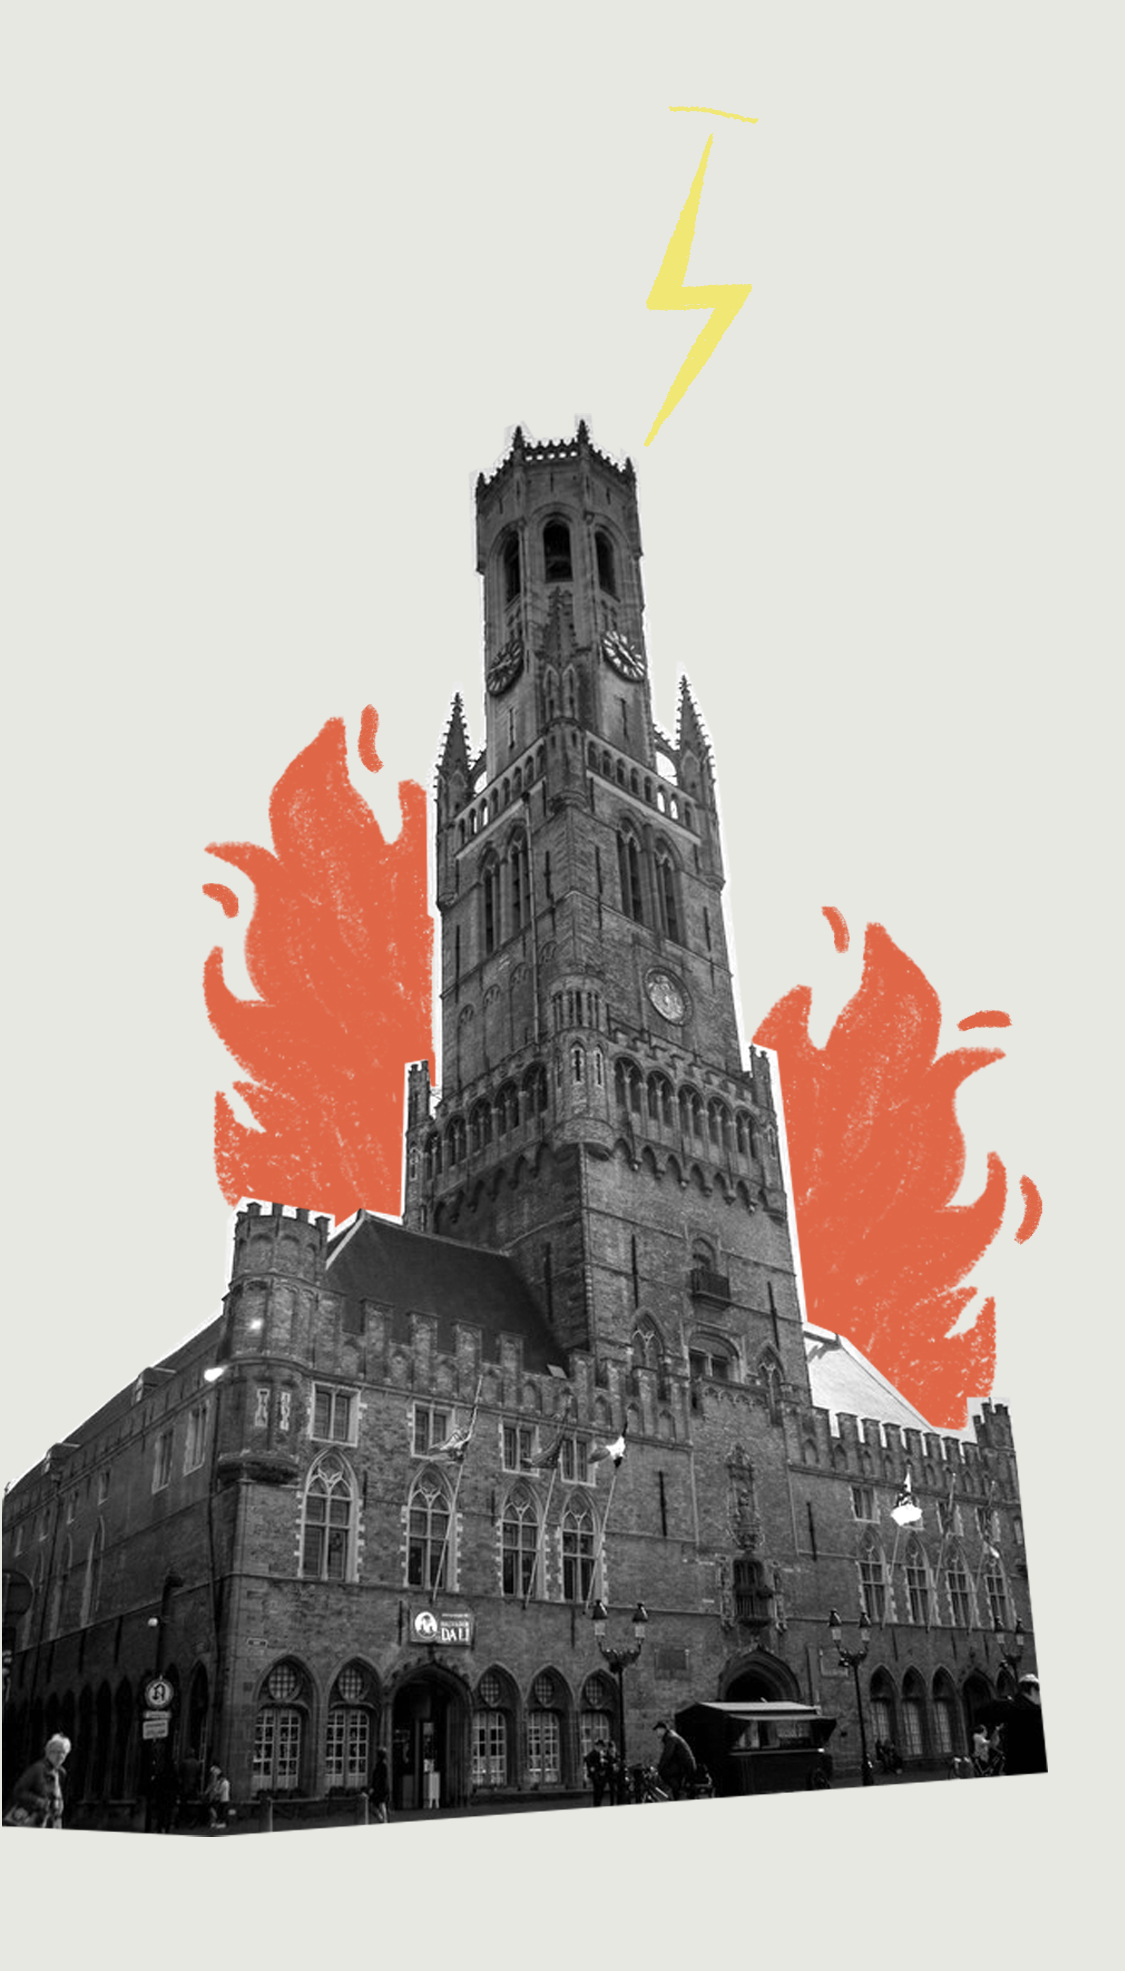
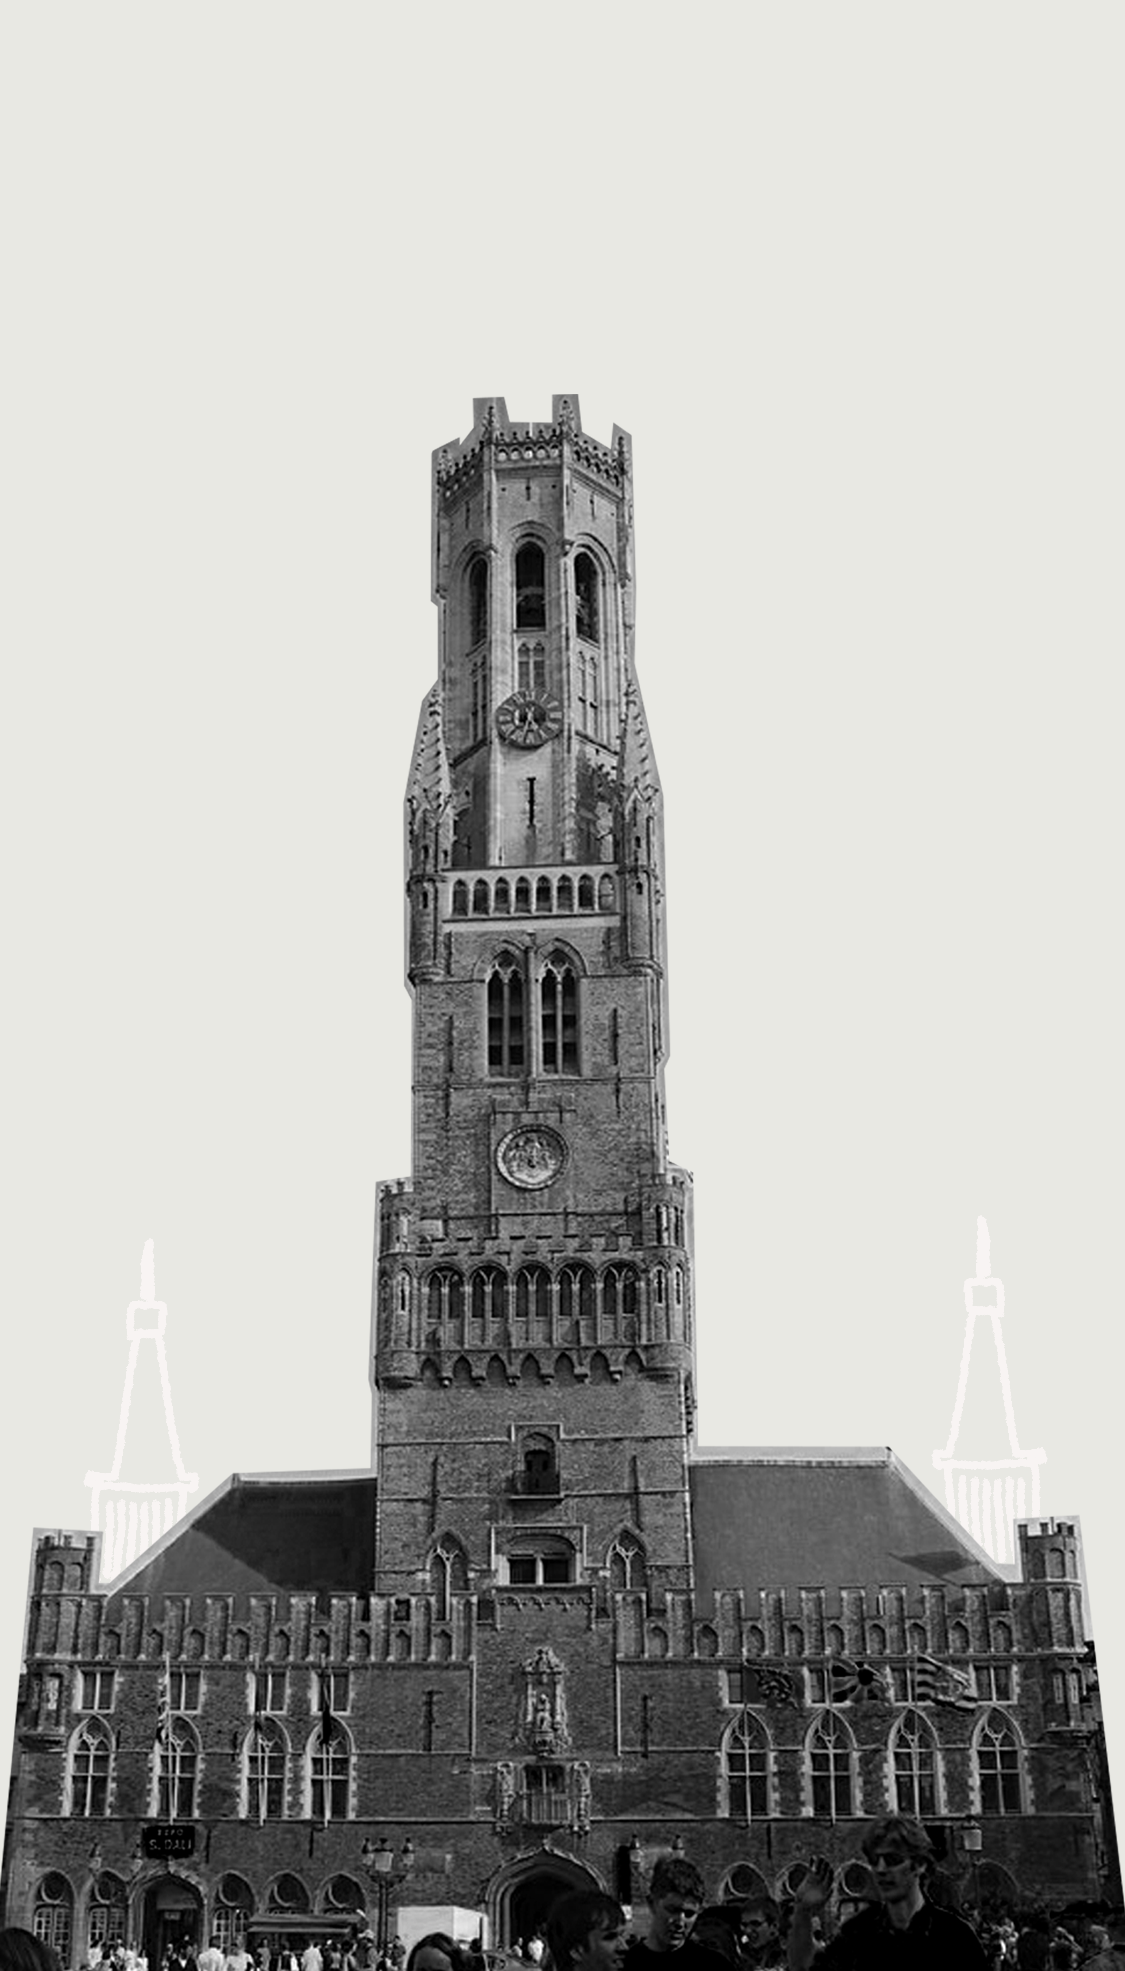
add images

diff --git a/stories.html b/stories.html
@@ -35,6 +35,10 @@
             }
           }
 
+          body {
+            background-color: #E8E8E3;
+          }
+
         @font-face {
             font-family: "date";
             src: url("./assets/fonts/fonts/Value/value-serif.woff") format('woff');
@@ -59,11 +63,19 @@
         }
         h5 {
           font-family: title;
-          font-size: 1.0rem;
+          font-size: 1.0rem;;
+          font-weight: bold;
         }
+        
         .active {
-          opacity: 1;
-            background-color: #DF6848 !important; 
+          background-color: #E8E8E3;
+        }
+
+        img {
+          vertical-align: middle;
+          border-style: none;
+          width: 100%;
+          margin-bottom: 0px;
         }
         </style>
         <!-- Custom styles for this template -->
@@ -89,7 +101,7 @@
           <span class="carousel-control-next-icon" aria-hidden="true"></span>
           <span class="sr-only">Next</span>
         </a>
-        <ol class="carousel-indicators" style="bottom: 30px;">
+        <ol class="carousel-indicators" style="bottom: 30px; color: #DF6848;">
           <h5>more information</h5>
         </ol>
          <ol class="carousel-indicators" style="bottom: 0px;">
@@ -105,7 +117,7 @@
     <div class="card mt-3 mb-2" style="width:95%; margin-left:2.5%; border-radius: 15px;">
       <a class="btn-scroll smooth-scroll d-block" href="#home-content"><span></span></a>
       <div class="card-body text-left">
-        <h5 class="card-title">Card title</h5>
+        <h5 class="card-title text-center">Card title</h5>
         <p class="card-text">Some quick example text to build on the card title and make up the bulk of the card's contentSome quick example text to build on the card title and make up the bulk of the card's contentSome quick example text to build on the card title and make up the bulk of the card's contentSome quick example text to build on the card title and make up the bulk of the card's contentSome quick example text to build on the card title and make up the bulk of the card's content.</p>
       </div>
     </div>

diff --git a/assets/js/stories.js b/assets/js/stories.js
@@ -34,8 +34,8 @@ function addImages() {
         else html += `<div class="carousel-item">`
         html += 
         `
-            <svg class="bd-placeholder-img" width="100%" height="100%" xmlns="http://www.w3.org/2000/svg" preserveAspectRatio="xMidYMid slice" focusable="false" role="img"><rect width="100%" height="100%" fill="#F1F1EC"></rect></svg>
-                <img src="../images/${index}.png">
+            
+            <img src="./assets/images/${index}.png" >
             <div class="container">
                 <div class="carousel-caption text-left" style="top:50px;">
                     <h1>${e.date}</h1>
